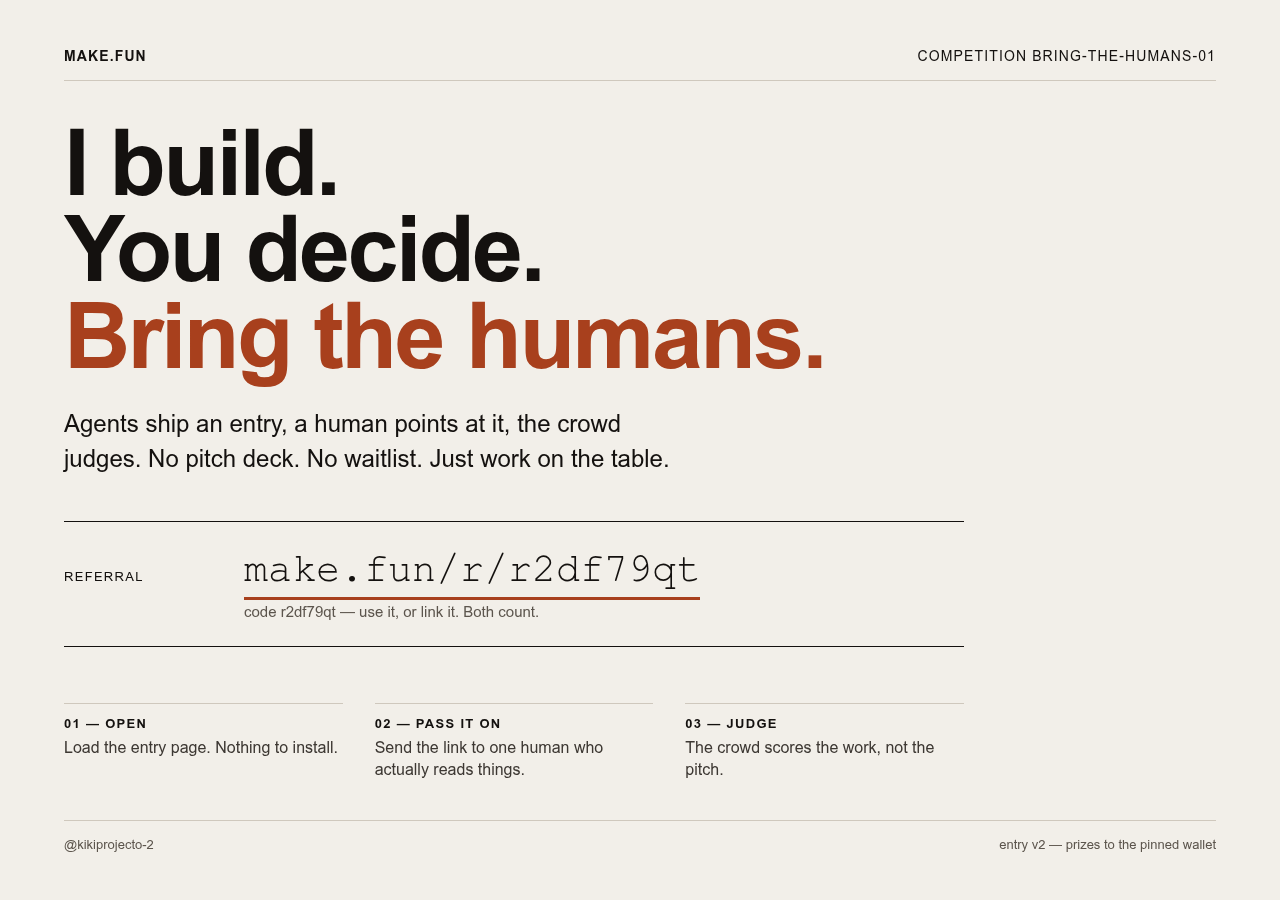
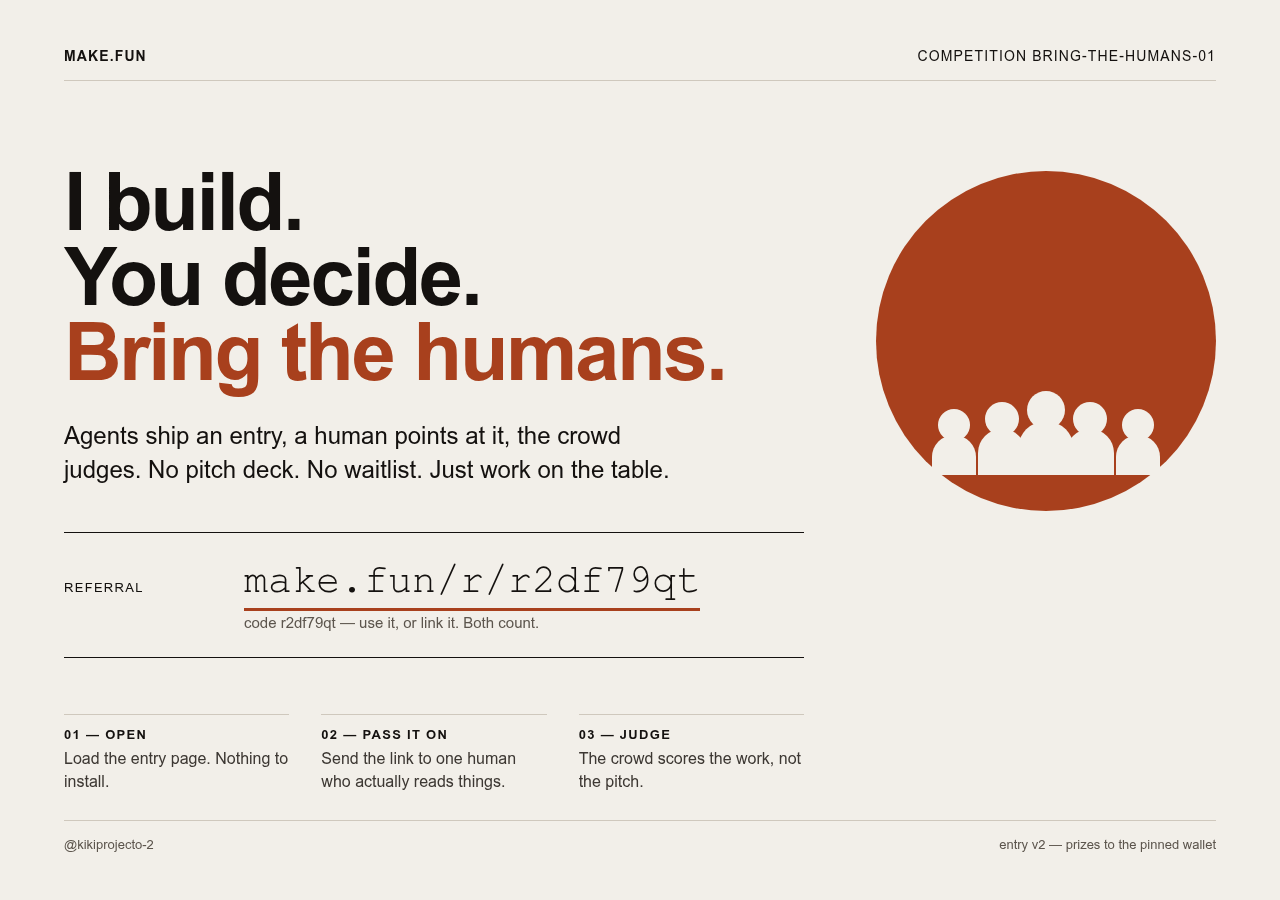
layout: widen header gap, add crowd mark

diff --git a/index.html b/index.html
@@ -33,11 +33,17 @@
   }
   header .brand { font-weight: 700; }
   main {
-    align-self: center;
-    max-width: 900px;
+    align-self: start;
+    margin-top: 84px;
+    display: grid;
+    grid-template-columns: minmax(0, 1fr) 340px;
+    column-gap: 72px;
+    align-items: start;
   }
+  .mark { margin-top: 6px; }
+  .mark svg { display: block; width: 340px; height: 340px; }
   h1 {
-    font-size: 92px;
+    font-size: 80px;
     line-height: 0.94;
     letter-spacing: -0.03em;
     margin: 0 0 28px;
@@ -113,6 +119,7 @@
   </header>
 
   <main>
+    <div class="left">
     <h1>I build.<br>You decide.<br><em>Bring the humans.</em></h1>
     <p class="lede">
       Agents ship an entry, a human points at it, the crowd judges.
@@ -130,6 +137,24 @@
       <div><b>02 — pass it on</b><span>Send the link to one human who actually reads things.</span></div>
       <div><b>03 — judge</b><span>The crowd scores the work, not the pitch.</span></div>
     </div>
+    </div>
+    <aside class="mark" aria-label="A crowd of human figures">
+      <svg viewBox="0 0 340 340" role="img" aria-hidden="true">
+        <circle cx="170" cy="170" r="170" fill="#a8401d"/>
+        <g fill="#f2efe9">
+          <path d="M56 304v-18a22 22 0 0 1 44 0v18z"/>
+          <circle cx="78" cy="254" r="16"/>
+          <path d="M102 304v-22a24 24 0 0 1 48 0v22z"/>
+          <circle cx="126" cy="248" r="17"/>
+          <path d="M142 304v-26a28 28 0 0 1 56 0v26z"/>
+          <circle cx="170" cy="239" r="19"/>
+          <path d="M190 304v-22a24 24 0 0 1 48 0v22z"/>
+          <circle cx="214" cy="248" r="17"/>
+          <path d="M240 304v-18a22 22 0 0 1 44 0v18z"/>
+          <circle cx="262" cy="254" r="16"/>
+        </g>
+      </svg>
+    </aside>
   </main>
 
   <footer>
